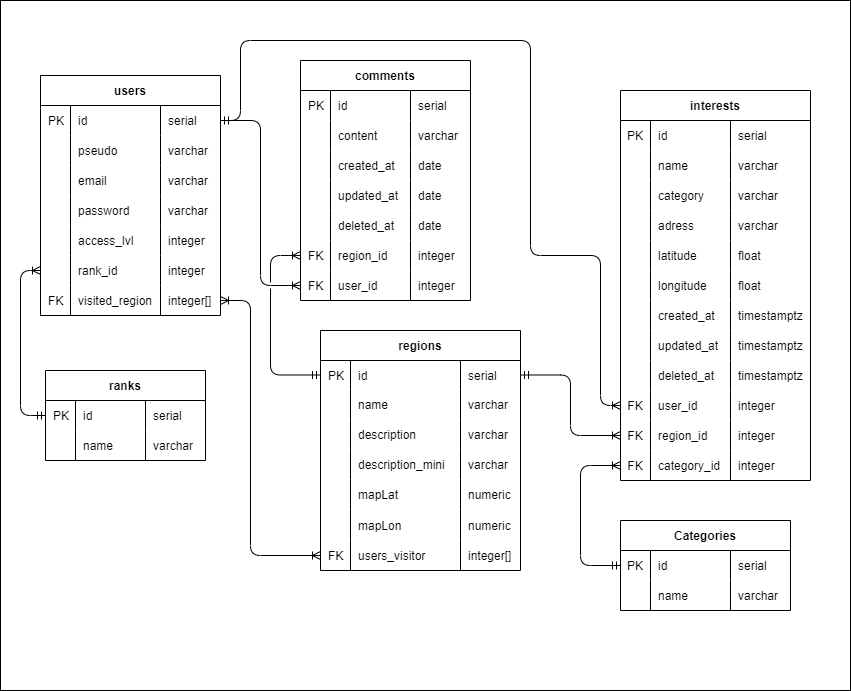
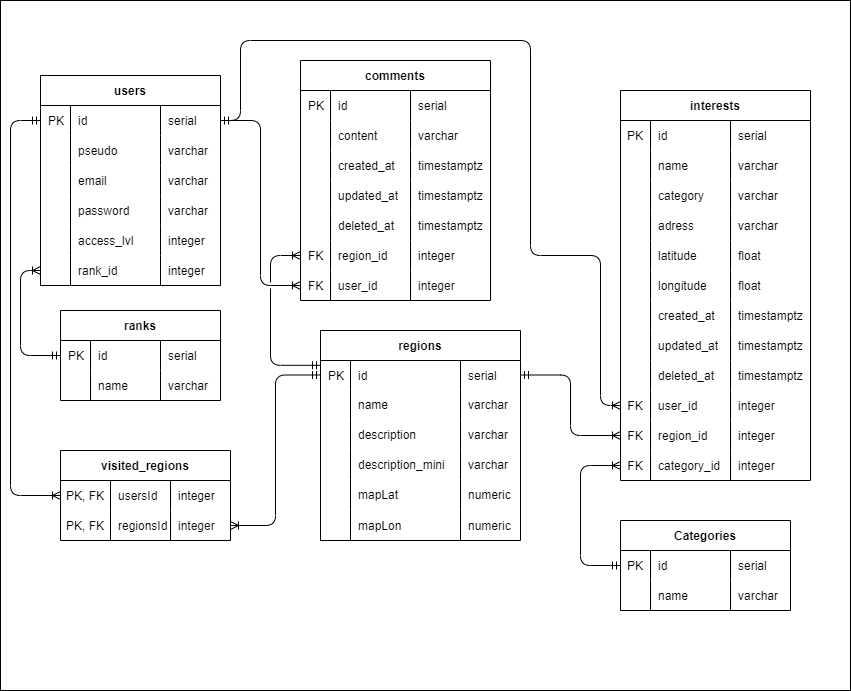
divers fix, test unitaire, ranks controller

diff --git a/src/users/users.controller.ts b/src/users/users.controller.ts
@@ -53,7 +53,7 @@ export class UsersController {
       createUserDto,
     ); /* Créé le nouvel utilisateur */
     return {
-      StatusCode: 201,
+      statusCode: 201,
       message: `${createUserDto.pseudo} a bien été enregistré` /* Concatenation d'une variable dans un string littéral pour écrire le pseudo */,
       data: data /* Renvoie la data sans le mot de passe évidemment */,
     };
@@ -74,7 +74,7 @@ export class UsersController {
     if (newVisit === null)
       throw new ConflictException('Vous avez déjà visité cette région');
 
-    return { StatusCode: 200, message: 'Visite enregistrée.', data: newVisit };
+    return { statusCode: 200, message: 'Visite enregistrée.', data: newVisit };
   }
 
   @ApiResponse({ status: 200, description: 'Visite retirée.' })
@@ -91,10 +91,33 @@ export class UsersController {
       updateUserDto,
       userData,
     );
-    console.log(removeVisit);
 
     if (removeVisit === null)
       throw new NotFoundException("Vous n'avez pas visité cette région");
-    return { StatusCode: 200, message: 'Visite retirée.', data: removeVisit };
+    return { statusCode: 200, message: 'Visite retirée.', data: removeVisit };
+  }
+
+  @ApiResponse({ status: 200, description: 'Rang modifié.' })
+  @UseGuards(JwtAuthGuard)
+  @UseInterceptors(ClassSerializerInterceptor)
+  @Patch('rank')
+  async patch(
+    @Body() updateUserDto: UpdateUserDto,
+    @Req() req: { user: Users },
+  ) {
+    const userData = req.user;
+
+    const updateRank = await this.usersService.rankUpdate(
+      updateUserDto,
+      userData,
+    );
+
+    if (!updateRank) throw new NotFoundException('Utilisateur introuvable');
+
+    return {
+      statusCode: 200,
+      message: 'Rang modifié',
+      data: updateRank,
+    };
   }
 }

diff --git a/src/users/users.service.ts b/src/users/users.service.ts
@@ -66,7 +66,7 @@ export class UsersService {
       await visit.save();
 
       return await Users.findOne({
-        relations: { visited_regions: true },
+        relations: { visited_regions: true, ranks: true },
         where: { id: userData.id },
       });
     }
@@ -91,11 +91,32 @@ export class UsersService {
       await visit.save();
 
       return await Users.findOne({
-        relations: { visited_regions: true },
+        relations: { visited_regions: true, ranks: true },
         where: { id: userData.id },
       });
     }
 
     return null;
+  }
+
+  async rankUpdate(
+    updateUserDto: UpdateUserDto,
+    userData: Users,
+  ): Promise<Users | null> {
+    const user = await Users.findOne({
+      relations: { ranks: true },
+      where: { id: userData.id },
+    });
+
+    if (!user) return null;
+
+    user.ranks = updateUserDto.rank;
+
+    await user.save();
+
+    return await Users.findOne({
+      relations: { visited_regions: true, ranks: true },
+      where: { id: userData.id },
+    });
   }
 }

diff --git a/test/app.e2e-spec.ts b/test/app.e2e-spec.ts
@@ -15,10 +15,32 @@ describe('AppController (e2e)', () => {
     await app.init();
   });
 
-  it('/ (GET)', () => {
-    return request(app.getHttpServer())
-      .get('/')
-      .expect(200)
-      .expect('Hello World!');
+  describe('/auth/login (POST)', () => {
+    it('Retourne le token et le user', async () => {
+      await request(app.getHttpServer())
+        .post('/auth/login')
+        .send({
+          pseudo: 'Azuries',
+          password: 'Canaille:40',
+        })
+        .expect(201);
+    });
+    it('Password incorrect', async () => {
+      await request(app.getHttpServer())
+        .post('/auth/login')
+        .send({ pseudo: 'Azuries', password: 'Canaille:41' })
+        .expect(401);
+    });
+  });
+
+  it('Pseudo incorrect', async () => {
+    await request(app.getHttpServer())
+      .post('/auth/login')
+      .send({ pseudo: 'Allo', password: 'anything' })
+      .expect(400);
+  });
+
+  afterEach(() => {
+    app.close();
   });
 });

diff --git a/src/users/dto/update-user.dto.ts b/src/users/dto/update-user.dto.ts
@@ -1,12 +1,16 @@
 import { ApiProperty, OmitType, PartialType } from '@nestjs/swagger';
-import { IsNumber } from 'class-validator';
-import { Regions } from 'src/regions/entities/region.entity';
+import { IsNumber, IsOptional } from 'class-validator';
 import { CreateUserDto } from './create-user.dto';
+import { Ranks } from 'src/ranks/entities/rank.entity';
 
 export class UpdateUserDto extends PartialType(
   OmitType(CreateUserDto, ['pseudo']),
 ) {
   @ApiProperty()
   @IsNumber()
+  @IsOptional()
   region_id: number;
+
+  @ApiProperty()
+  rank: Ranks;
 }

diff --git a/src/ranks/ranks.controller.ts b/src/ranks/ranks.controller.ts
@@ -57,8 +57,13 @@ export class RanksController {
   }
 
   @Get(':id')
-  findOne(@Param('id') id: string) {
-    return this.ranksService.findOne(+id);
+  async findOne(@Param('id') id: string) {
+    const rank = await this.ranksService.findOne(+id);
+    return {
+      StatusCode: 200,
+      Message: `Rang ${rank?.name}`,
+      Data: rank,
+    };
   }
 
   @UseGuards(JwtAuthGuard)

diff --git a/src/auth/strategy/local.strategy.ts b/src/auth/strategy/local.strategy.ts
@@ -24,7 +24,7 @@ export class LocalStrategy extends PassportStrategy(Strategy) {
 
     const user = await this.authService.validateUser(pseudo, password);
     if (!user) {
-      throw new UnauthorizedException();
+      throw new UnauthorizedException('Pseudo ou Mot de passe incorrect');
     }
     return user;
   }

diff --git a/src/main.ts b/src/main.ts
@@ -10,7 +10,7 @@ async function bootstrap() {
 
   app.setGlobalPrefix('api/');
   const config = new DocumentBuilder()
-    .setTitle('Japan travels')
+    .setTitle("Japan's travels")
     .setDescription('Partagez vos souvenirs de voyage, ou préparez le votre !')
     .setVersion('1.0')
     .addTag('Japan')

diff --git a/src/ranks/ranks.service.ts b/src/ranks/ranks.service.ts
@@ -19,8 +19,10 @@ export class RanksService {
     return await Ranks.find();
   }
 
-  findOne(id: number) {
-    return `This action returns a #${id} rank`;
+  async findOne(id: number): Promise<Ranks | null> {
+    const rank = await Ranks.findOneBy({ id });
+
+    return rank;
   }
 
   async update(

diff --git a/src/interests/interests.controller.ts b/src/interests/interests.controller.ts
@@ -43,6 +43,10 @@ export class InterestsController {
       createInterestDto,
       userData,
     );
+
+    if (newInterest === null)
+      throw new NotFoundException("Cette région n'existe pas");
+
     return {
       StatusCode: 201,
       Message: `Point d'intéret ajouté`,

diff --git a/src/auth/auth.module.ts b/src/auth/auth.module.ts
@@ -15,6 +15,7 @@ import { JwtStrategy } from './strategy/jwt.strategy';
     PassportModule,
     JwtModule.register({
       secret: process.env.JWTCONSTANTS,
+      signOptions: { expiresIn: '1h' },
     }),
   ],
   providers: [AuthService, LocalStrategy, JwtStrategy],
